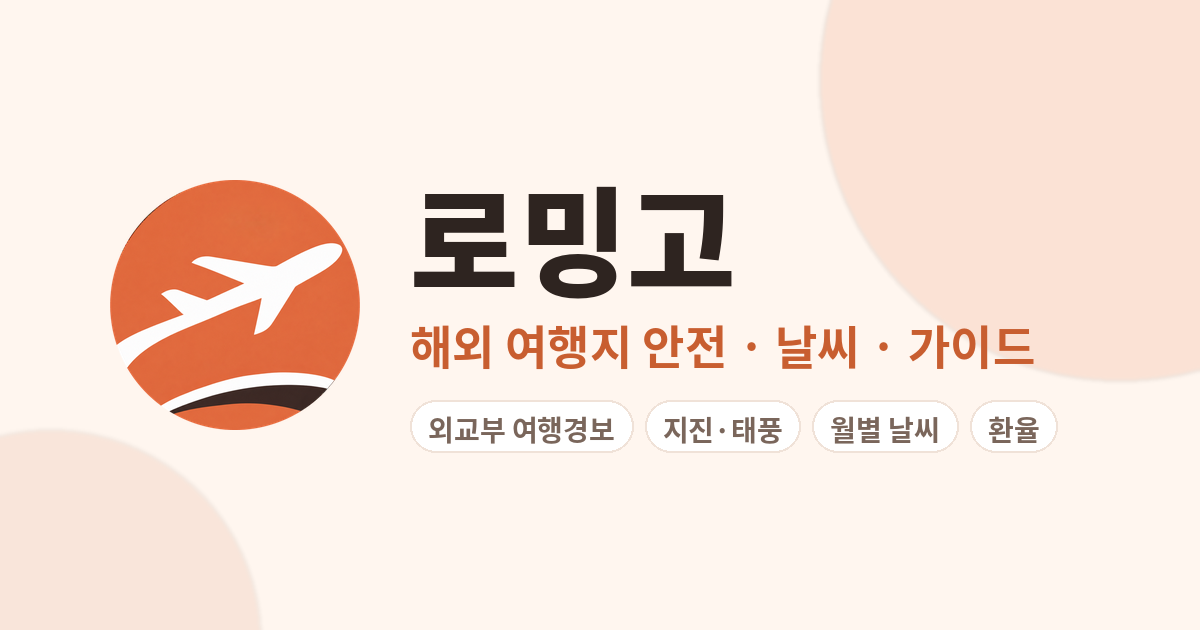
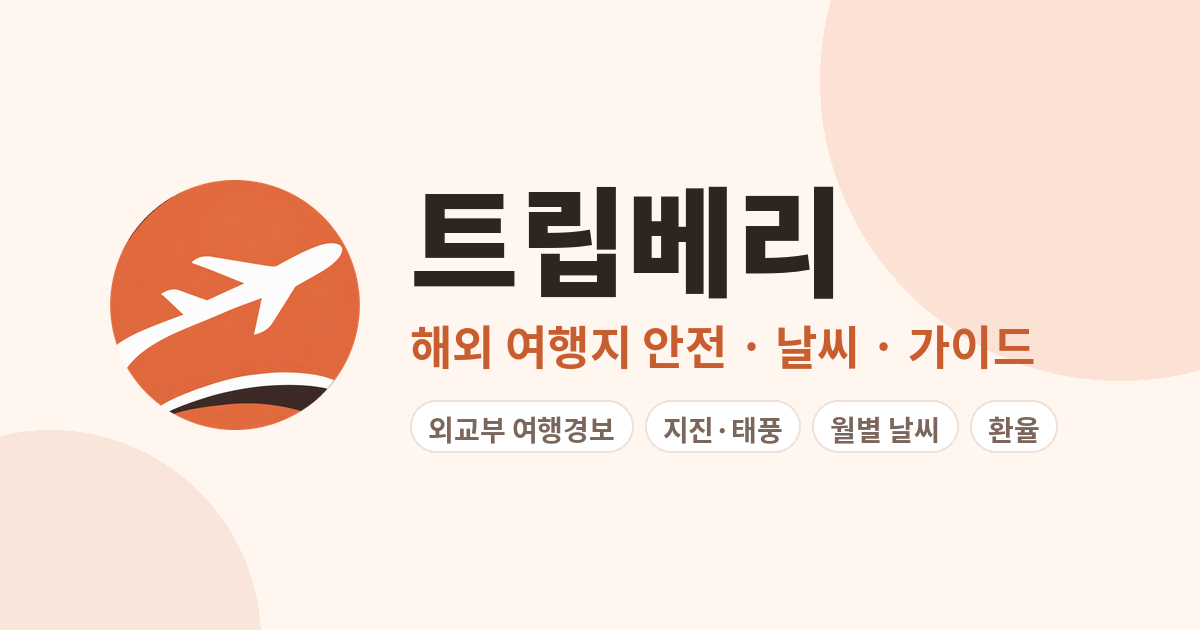
이름 트립베리로 변경

diff --git a/src/data/load.js b/src/data/load.js
@@ -16,7 +16,7 @@ try {
   fresh = (j.features || []).map(normQuake);
   QUAKE_OK = true;
 } catch (e) {
-  console.warn('[로밍고] USGS 불러오기 실패, 보관함만 씀:', e.message);
+  console.warn('[트립베리] USGS 불러오기 실패, 보관함만 씀:', e.message);
 }
 
 let freshD = [];
@@ -26,7 +26,7 @@ try {
   freshD = (j.features || []).map(normDisaster);
   GDACS_OK = true;
 } catch (e) {
-  console.warn('[로밍고] GDACS 불러오기 실패, 보관함만 씀:', e.message);
+  console.warn('[트립베리] GDACS 불러오기 실패, 보관함만 씀:', e.message);
 }
 
 export const BUILT_AT = Date.now();

diff --git a/src/data/search.js b/src/data/search.js
@@ -28,7 +28,7 @@ export const SEARCH_INDEX = COUNTRIES.map((c) => {
   };
 });
 
-// 로밍고에 아직 없는 나라를 찾을 때 — 외교부 여행경보만이라도 보여 줌
+// 트립베리에 아직 없는 나라를 찾을 때 — 외교부 여행경보만이라도 보여 줌
 import alarmsAll from './archive/alarms.json';
 export const ALARM_INDEX = Object.values(alarmsAll || {}).map((a) => [
   a.name,

diff --git a/src/site.js b/src/site.js
@@ -1,5 +1,5 @@
 // 사이트 기본 정보 — 도메인을 사면 SITE_URL 만 바꾸면 돼요.
-export const SITE_NAME = '로밍고';
+export const SITE_NAME = '트립베리';
 export const SITE_TAGLINE = '해외 여행지 안전 · 날씨 · 가이드';
 export const SITE_URL = 'https://romingo.pages.dev';
 export const SITE_DESC =

diff --git a/README.md b/README.md
@@ -1,8 +1,8 @@
-# 로밍고 (Romingo) — 사이트 인수인계 문서
+# 트립베리 (Tripberry) — 사이트 인수인계 문서
 
 > 해외 여행지 **안전 · 날씨 · 가이드**를 한곳에서 보여 주는 사이트  
 > 주소: https://romingo.pages.dev  ·  저장소: https://github.com/bsowon88-design/romingo  
-> 마지막 정리: 2026-11-24
+> 마지막 정리: 2026-11-24 · 예전 이름 "로밍고(romingo)" — 사이트 주소(romingo.pages.dev)·저장소·폴더 이름은 아직 예전 이름 그대로예요. 정식 도메인을 살 때 주소를 바꿔요.
 
 이 문서 하나로 사이트가 **무엇을 보여 주는지**, **어떻게 자동으로 돌아가는지**, **어떻게 고치는지**를 알 수 있게 정리했어요.  
 비밀번호·인증키 값은 이 문서에 없어요. 어디서 새로 받아서 어디에 넣는지만 적었어요.
